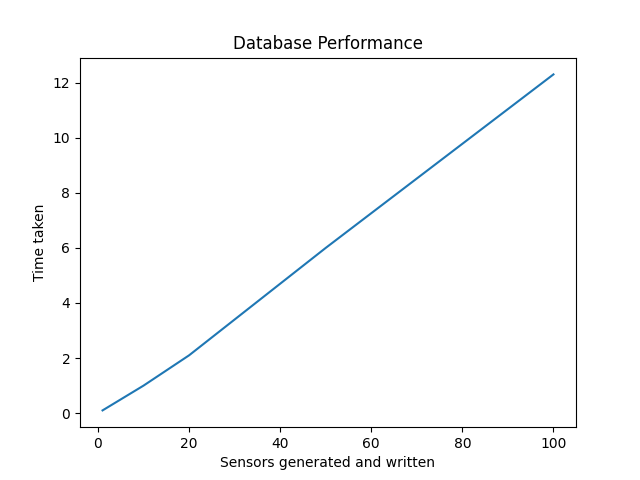
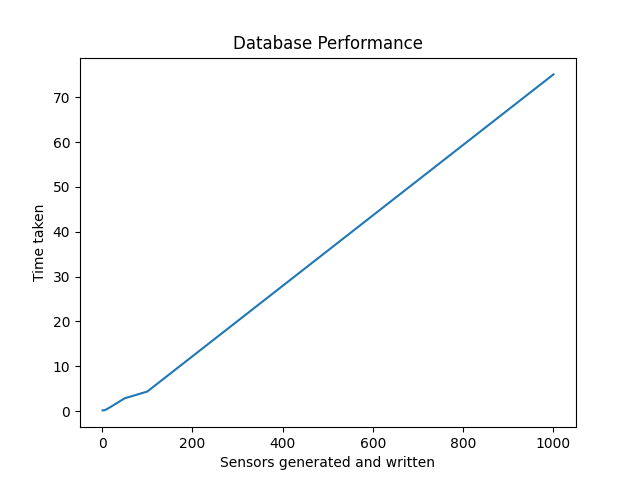
Finished Tasks 2 and 3

diff --git a/UpdateStatistics/__init__.py b/UpdateStatistics/__init__.py
@@ -1,0 +1,94 @@
+import datetime
+import logging
+import pyodbc
+
+import datetime
+import random
+from dataclasses import dataclass
+
+import azure.functions as func
+from helper_functions import *
+
+def write_statistics(sensorStatistics : list[Sensor, Sensor, Sensor], cursor : pyodbc.Cursor):
+    cursor.execute("INSERT INTO sensor_statistics VALUES (?, ?, ?, ?, ?, ?, ?, ?, ?, ?, ?, ?, ?)", 
+                        sensorStatistics[0].SensorID, 
+                        sensorStatistics[2].Temperature, # AVG
+                        sensorStatistics[0].Temperature, # MIN
+                        sensorStatistics[1].Temperature, # MAX
+                        sensorStatistics[2].Wind, # AVG
+                        sensorStatistics[0].Wind, # MIN
+                        sensorStatistics[1].Wind, # MAX
+                        sensorStatistics[2].Humidity, # AVG
+                        sensorStatistics[0].Humidity, # MIN
+                        sensorStatistics[1].Humidity, # MAX
+                        sensorStatistics[2].CO2, # AVG
+                        sensorStatistics[0].CO2, # MIN
+                        sensorStatistics[1].CO2 # MAX
+                        )
+
+def main(changes):
+    logging.info('Python HTTP trigger function processed a request.')
+
+    connection = get_db_connection()
+    cursor = connection.cursor()
+
+    analysedSensors : list[Sensor, Sensor, Sensor] = []
+
+    for i in range(NbrSensors):
+        # instantiated as -999 as it is unfair to compare against 0 and we need to set as the first value we get
+        # -999 is suitable as realistically none of these fields should EVER have these values
+        minimumSensor : Sensor = Sensor(i+1, -999, -999, -999, -999)
+        maximumSensor : Sensor = Sensor(i+1, -999, -999, -999, -999)
+        averageSensor : Sensor = Sensor(i+1, 0, 0, 0, 0)
+
+        cursor.execute(f"SELECT SensorID, Temperature, Wind, Humidity, CO2 FROM sensor_data WHERE SensorID={i+1}")
+        for sensorDataInstance in cursor.fetchall():
+            # Temperature Analysis
+            if (minimumSensor.Temperature > sensorDataInstance.Temperature or minimumSensor.Temperature == -999): 
+                minimumSensor.Temperature = sensorDataInstance.Temperature
+            if (maximumSensor.Temperature < sensorDataInstance.Temperature or maximumSensor.Temperature == -999): 
+                maximumSensor.Temperature = sensorDataInstance.Temperature
+            averageSensor.Temperature += sensorDataInstance.Temperature
+    
+            # Wind Analysis
+            if (minimumSensor.Wind > sensorDataInstance.Wind or minimumSensor.Wind == -999): 
+                minimumSensor.Wind = sensorDataInstance.Wind
+            if (maximumSensor.Wind < sensorDataInstance.Wind or maximumSensor.Wind == -999): 
+                maximumSensor.Wind = sensorDataInstance.Wind
+            averageSensor.Wind += sensorDataInstance.Wind
+
+            # Humidity Analysis
+            if (minimumSensor.Humidity > sensorDataInstance.Humidity or minimumSensor.Humidity == -999): 
+                minimumSensor.Humidity = sensorDataInstance.Humidity
+            if (maximumSensor.Humidity < sensorDataInstance.Humidity or maximumSensor.Humidity == -999): 
+                maximumSensor.Humidity = sensorDataInstance.Humidity
+            averageSensor.Humidity += sensorDataInstance.Humidity
+
+            # CO2 Analysis
+            if (minimumSensor.CO2 > sensorDataInstance.CO2 or minimumSensor.CO2 == -999): 
+                minimumSensor.CO2 = sensorDataInstance.CO2
+            if (maximumSensor.CO2 < sensorDataInstance.CO2 or maximumSensor.CO2 == -999): 
+                maximumSensor.CO2 = sensorDataInstance.CO2
+            averageSensor.CO2 += sensorDataInstance.CO2
+        
+        averageSensor.Temperature /= NbrSensors
+        averageSensor.Wind /= NbrSensors
+        averageSensor.Humidity /= NbrSensors
+        averageSensor.CO2 /= NbrSensors
+
+        analysedSensors.append([minimumSensor, maximumSensor, averageSensor])
+
+    # Wipe existing statistic data
+    cursor.execute("DELETE FROM sensor_statistics")
+
+    # Write our statistic data
+    for i in range(len(analysedSensors)):
+        write_statistics(analysedSensors[i], cursor)
+    connection.commit()
+
+    # Create our return string and format the data nicely
+    #returnString = f""
+    #for i in range(len(analysedSensors)):
+    #    returnString += f"Sensor {analysedSensors[i][0].SensorID}:\n   Min:{analysedSensors[i][0]}\n   Max:{analysedSensors[i][1]}\n   Avg:{analysedSensors[i][2]}\n\n"
+
+    #return func.HttpResponse("Hello")

diff --git a/DisplayStatistics/__init__.py b/DisplayStatistics/__init__.py
@@ -1,0 +1,59 @@
+import datetime
+import logging
+import pyodbc
+
+import datetime
+import random
+from dataclasses import dataclass
+
+import azure.functions as func
+from helper_functions import *
+
+def write_statistics(sensorStatistics : list[Sensor, Sensor, Sensor], cursor : pyodbc.Cursor):
+    cursor.execute("INSERT INTO sensor_statistics VALUES (?, ?, ?, ?, ?, ?, ?, ?, ?, ?, ?, ?, ?)", 
+                        sensorStatistics[0].SensorID, 
+                        sensorStatistics[2].Temperature, # AVG
+                        sensorStatistics[0].Temperature, # MIN
+                        sensorStatistics[1].Temperature, # MAX
+                        sensorStatistics[2].Wind, # AVG
+                        sensorStatistics[0].Wind, # MIN
+                        sensorStatistics[1].Wind, # MAX
+                        sensorStatistics[2].Humidity, # AVG
+                        sensorStatistics[0].Humidity, # MIN
+                        sensorStatistics[1].Humidity, # MAX
+                        sensorStatistics[2].CO2, # AVG
+                        sensorStatistics[0].CO2, # MIN
+                        sensorStatistics[1].CO2 # MAX
+                        )
+
+def main(req: func.HttpRequest) -> func.HttpResponse:
+    logging.info('Python HTTP trigger function processed a request.')
+
+    connection = get_db_connection()
+    cursor = connection.cursor()
+
+    returnString = f""
+
+    for i in range(NbrSensors):
+        minimumSensor : Sensor = Sensor(i+1, -999, -999, -999, -999)
+        maximumSensor : Sensor = Sensor(i+1, -999, -999, -999, -999)
+        averageSensor : Sensor = Sensor(i+1, 0, 0, 0, 0)
+
+        cursor.execute(f"SELECT * FROM sensor_statistics WHERE SensorID={i+1}")
+        sensorDataInstance = cursor.fetchone()
+        averageSensor.Temperature = sensorDataInstance.AverageTemperature
+        minimumSensor.Temperature = sensorDataInstance.MinimumTemperature
+        maximumSensor.Temperature = sensorDataInstance.MaximumTemperature
+        averageSensor.Wind = sensorDataInstance.AverageWind
+        minimumSensor.Wind = sensorDataInstance.MinimumWind
+        maximumSensor.Wind = sensorDataInstance.MaximumWind
+        averageSensor.Humidity = sensorDataInstance.AverageHumidity
+        minimumSensor.Humidity = sensorDataInstance.MinimumHumidity
+        maximumSensor.Humidity = sensorDataInstance.MaximumHumidity
+        averageSensor.CO2 = sensorDataInstance.AverageCO2
+        minimumSensor.CO2 = sensorDataInstance.MinimumCO2
+        maximumSensor.CO2 = sensorDataInstance.MaximumCO2
+
+        returnString += f"Sensor {averageSensor.SensorID}:\n   Min:{minimumSensor}\n   Max:{maximumSensor}\n   Avg:{averageSensor}\n\n"
+        
+    return func.HttpResponse(returnString)

diff --git a/helper_functions.py b/helper_functions.py
@@ -1,0 +1,73 @@
+import datetime
+import logging
+import pyodbc
+
+import datetime
+import random
+from dataclasses import dataclass
+
+import azure.functions as func
+
+NbrSensors = 20
+SqlConnectionString = "Driver={ODBC Driver 18 for SQL Server};Server=tcp:corin-server.database.windows.net,1433;Database=dist-sys-cwk2-db;Uid=Corin;Pwd=.Password123;Encrypt=yes;TrustServerCertificate=no;Connection Timeout=30;"
+
+@dataclass
+class Sensor:
+    SensorID: int
+    Temperature: int
+    Wind: int
+    Humidity: int
+    CO2: int
+
+# Helps need the connection string to only be defined in one place
+def get_db_connection() -> pyodbc.Connection:
+    connectionString = SqlConnectionString
+    return pyodbc.connect(connectionString)
+
+def generate_data(nbrSensors : int) -> list[Sensor]:
+    data: list[Sensor] = []
+
+    for i in range(nbrSensors):
+        data.append(Sensor(
+            i + 1,
+            random.randint(8, 15),
+            random.randint(15, 25),
+            random.randint(40, 70),
+            random.randint(500, 1500)
+        ))
+    return data
+
+# Generates a set of data with negative sensor IDs
+# Useful for benchmarking as the data can be removed afterwards
+def generate_data_alt(nbrSensors : int) -> list[Sensor]:
+    data: list[Sensor] = []
+
+    for i in range(nbrSensors):
+        data.append(Sensor(
+            -i - 1,
+            random.randint(8, 15),
+            random.randint(15, 25),
+            random.randint(40, 70),
+            random.randint(500, 1500)
+        ))
+    return data
+
+
+
+def write_data(sensorData : Sensor, cursor : pyodbc.Cursor):
+    cursor.execute("INSERT INTO sensor_data VALUES (?, ?, ?, ?, ?, ?)", 
+                       sensorData.SensorID, 
+                       datetime.datetime.now(), 
+                       sensorData.Temperature, 
+                       sensorData.Wind, 
+                       sensorData.Humidity, 
+                       sensorData.CO2)
+    
+def write_data_with_time(sensorData : Sensor, cursor : pyodbc.Cursor, time : datetime):
+    cursor.execute("INSERT INTO sensor_data VALUES (?, ?, ?, ?, ?, ?)", 
+                       sensorData.SensorID, 
+                       time, 
+                       sensorData.Temperature, 
+                       sensorData.Wind, 
+                       sensorData.Humidity, 
+                       sensorData.CO2)

diff --git a/SimulatedData/__init__.py b/SimulatedData/__init__.py
@@ -7,46 +7,15 @@ import random
 from dataclasses import dataclass
 
 import azure.functions as func
+from helper_functions import *
 
 
-@dataclass
-class Sensor:
-    SensorID: int
-    Temperature: int
-    Wind: int
-    Humidity: int
-    CO2: int
-
-def generate_data(nbrSensors : int) -> list[Sensor]:
-    data: list[Sensor] = []
-
-    for i in range(nbrSensors):
-        data.append(Sensor(
-            i + 1,
-            random.randint(8, 15),
-            random.randint(15, 25),
-            random.randint(40, 70),
-            random.randint(500, 1500)
-        ))
-    return data
-
-
-
-def write_data(sensorData : Sensor, cursor : pyodbc.Cursor):
-    cursor.execute("INSERT INTO sensor_data VALUES (?, ?, ?, ?, ?, ?)", 
-                       sensorData.SensorID, 
-                       datetime.datetime.now(), 
-                       sensorData.Temperature, 
-                       sensorData.Wind, 
-                       sensorData.Humidity, 
-                       sensorData.CO2)
 
 def main(mytimer: func.TimerRequest) -> None:
     utc_timestamp = datetime.datetime.utcnow().replace(
         tzinfo=datetime.timezone.utc).isoformat()
 
     
-    NbrSensors: int = 20
     data: list[Sensor] = generate_data(NbrSensors)
 
     
@@ -60,8 +29,7 @@ def main(mytimer: func.TimerRequest) -> None:
     logging.info('Python timer trigger function ran at %s', utc_timestamp)
     #logging.info(returnString)
 
-    connectionString = "Driver={ODBC Driver 18 for SQL Server};Server=tcp:corin-server.database.windows.net,1433;Database=dist-sys-cwk2-db;Uid=Corin;Pwd=.Password123;Encrypt=yes;TrustServerCertificate=no;Connection Timeout=30;"
-    connection = pyodbc.connect(connectionString)
+    connection = get_db_connection()
     cursor = connection.cursor()
     
     for x in range(NbrSensors):

diff --git a/DisplayDBPerformanceGraph/__init__.py b/DisplayDBPerformanceGraph/__init__.py
@@ -1,17 +1,46 @@
 import logging
 import io
 
+import datetime
 import azure.functions as func
 import matplotlib.pyplot as plt
 from PIL import Image 
+from helper_functions import *
+import time
+
+# Write a defined amount of sensors with data to the database and return how long it takes
+def write_n_sensors(n : int, connection : pyodbc.Connection) -> float:
+    start_time = time.time()
+    cursor = connection.cursor()
+
+    sensorData = generate_data_alt(n)
+    for sensor in sensorData:
+        write_data_with_time(sensor, cursor, datetime.datetime.now())
+    connection.commit()
+
+    execution_time = time.time() - start_time
+    remove_fake_data(connection)
+    return execution_time
+
+def remove_fake_data(connection : pyodbc.Connection):
+    cursor = connection.cursor()
+    cursor.execute("DELETE FROM sensor_data WHERE SensorID < 0")
+    connection.commit()
+
 
 def main(req: func.HttpRequest) -> func.HttpResponse:
     logging.info('Python HTTP trigger function processed a request.')
 
-    dataWriteBands : list[int] = [1, 5, 10, 20, 50, 100]
+    dataWriteBands : list[int] = [1, 5, 10, 20, 50, 100, 1000]
+    connection = get_db_connection()
 
     x_axis = dataWriteBands
-    y_axis = [0.1, 0.5, 1.0, 2.1, 6.0, 12.3]
+    y_axis = []
+
+    for i in range(len(dataWriteBands)):
+        time_taken = write_n_sensors(dataWriteBands[i], connection)
+        y_axis.append(time_taken)
+
 
     plt.plot(x_axis, y_axis)
     plt.title('Database Performance')
@@ -25,4 +54,3 @@ def main(req: func.HttpRequest) -> func.HttpResponse:
     img_byte_arr = img_byte_arr.getvalue()
 
     return func.HttpResponse(img_byte_arr, mimetype='image/png')
-    #return func.HttpResponse("Hello, PERSON. This HTTP triggered function executed successfully.")
